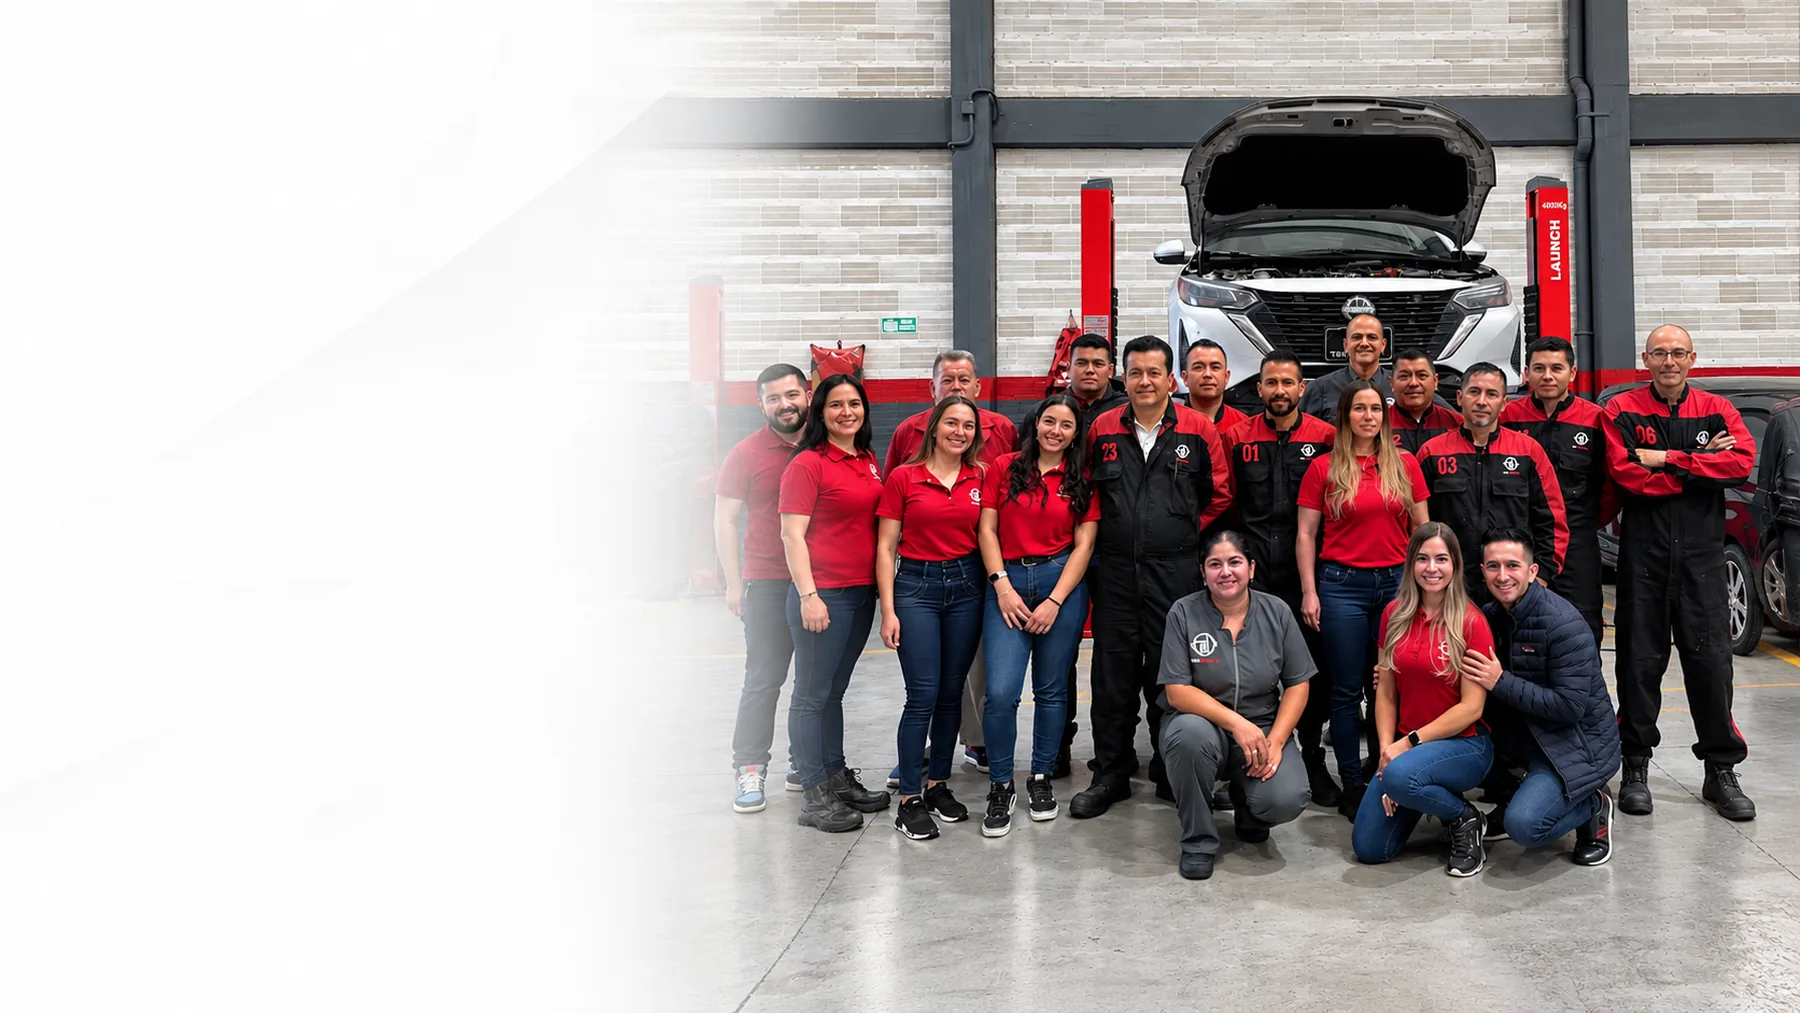
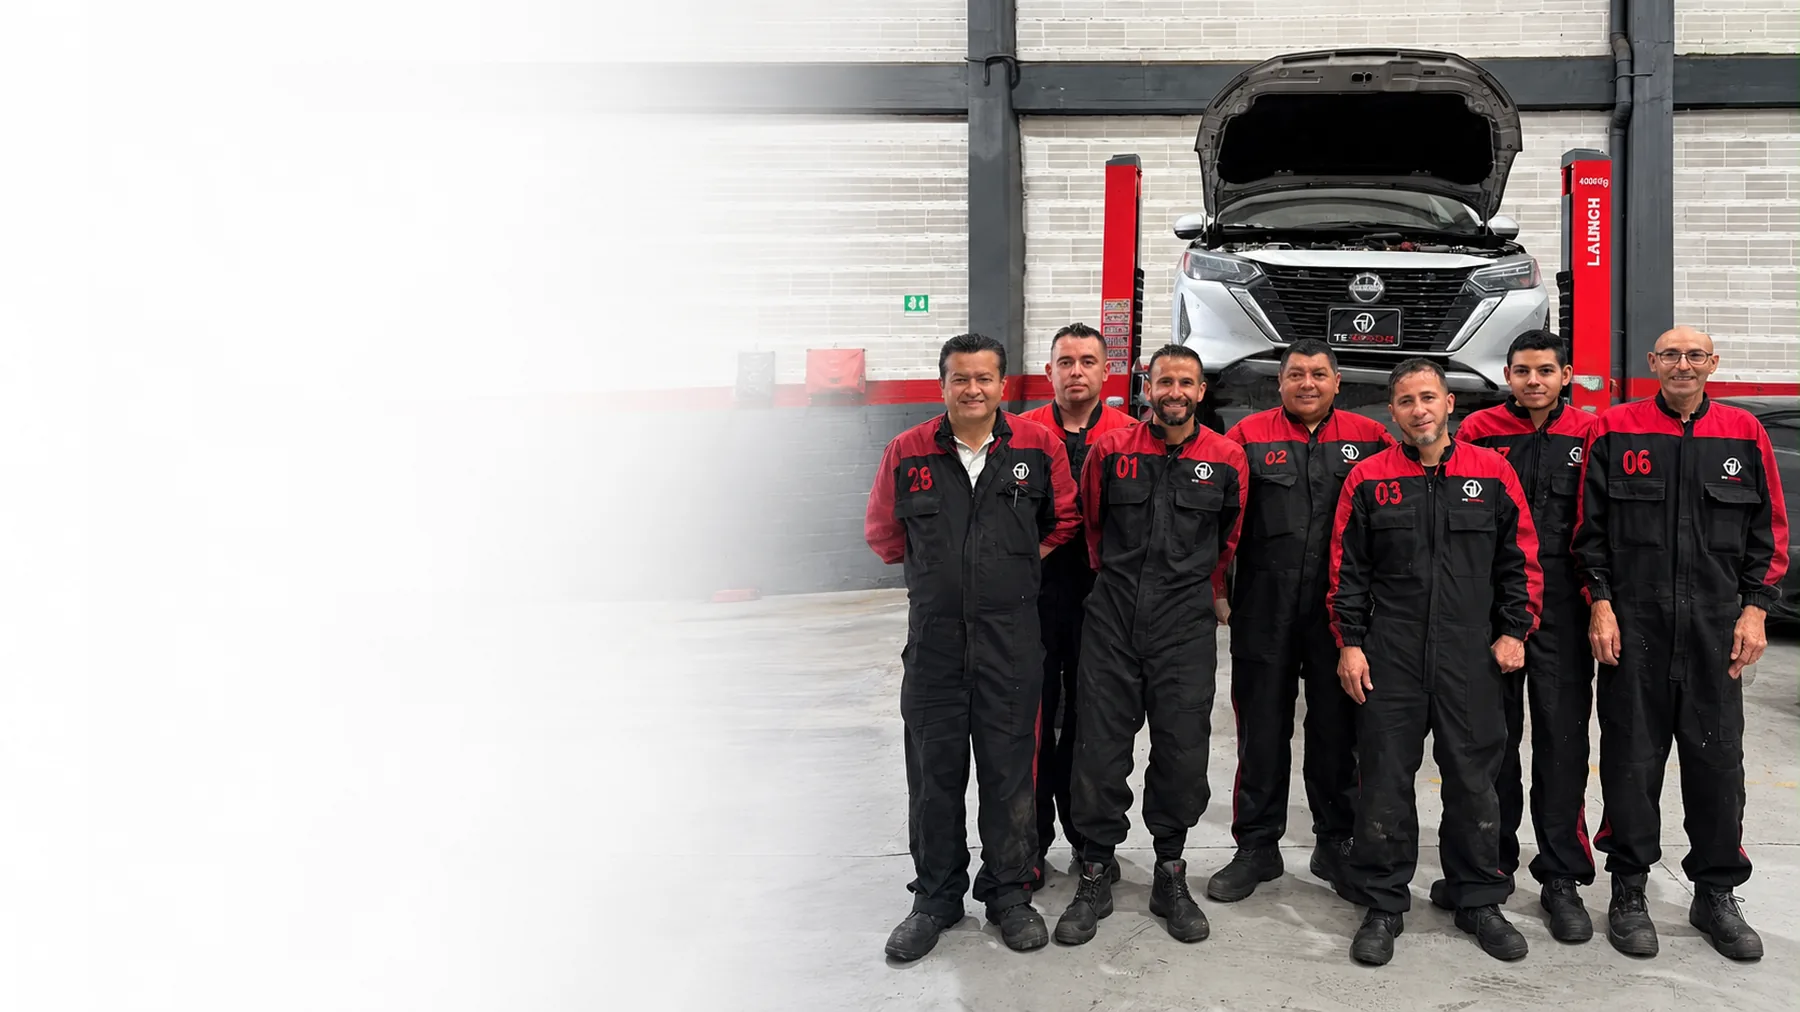
La foto de los mecanicos va a Equipo y la del equipo completo a Nosotros
La nueva foto, la del equipo mecanico, reemplaza la portada de la pagina
de Equipo. La que estaba ahi, el equipo completo, se recicla como fondo
de "Por que elegir Tecnissan" en el inicio, con la misma estructura.

Nosotros deja de ser dos columnas con la foto de la nave al lado y pasa a
.hero: el texto sobre el degradado a blanco y la foto llenando el fondo.

Tres ajustes que pidio la seccion:

- Las razones pasan a una columna. A dos se salian de la zona blanca y el
  texto de la segunda caia sobre la gente, ilegible.
- Lleva linea arriba y abajo. Queda entre Servicios y la banda de cita,
  las dos blancas, y sin las lineas no se sabia donde empieza.
- Las dos portadas nuevas comparten el velo suave que ya tenia Equipo:
  son caras, no la pared del taller.

Cada portada declara en --franja el alto que necesita su recorte movil, y
el velo de celular se calcula de ahi. Los recortes: mecanicos 103.1vw,
equipo completo 89.4vw.

Sale nave.jpg y su regla .f-nave: era un recorte de la misma foto que ya
esta de fondo en la portada del inicio.

Claude-Session: https://claude.ai/code/session_014GMneRGxYmBqRQP8rwtT9y

diff --git a/site/index.html b/site/index.html
@@ -273,37 +273,32 @@
 </section>
 
 <!-- ============================== POR QUÉ ============================== -->
-<section class="seccion hueso" id="nosotros">
-  <div class="envoltura">
-    <div class="detalle">
-      <div>
-        <span class="etiqueta" data-anim>Por qué elegir Tecnissan</span>
-        <h2 data-anim style="margin-top:18px">El taller de la esquina sabe de carros. Nosotros sabemos del tuyo.</h2>
-        <p class="plomo" data-anim style="margin-top:18px">Un Nissan no se arregla igual que los demás. Su electrónica, sus tiempos y sus fallas típicas son suyos, y el que no los conoce empieza a cambiar piezas para ver si pega.</p>
+<!-- misma estructura que la portada: la foto del equipo completo va de
+     fondo y el texto encima del degradado a blanco de la izquierda -->
+<section class="hero hero-nosotros" id="nosotros">
+  <div class="hero-rejilla">
+    <div>
+      <span class="etiqueta" data-anim>Por qué elegir Tecnissan</span>
+      <h2 data-anim style="margin-top:18px">El taller de la esquina sabe de carros. Nosotros sabemos del tuyo.</h2>
+      <p class="plomo" data-anim style="margin-top:18px">Un Nissan no se arregla igual que los demás. Su electrónica, sus tiempos y sus fallas típicas son suyos, y el que no los conoce empieza a cambiar piezas para ver si pega.</p>
 
         <div class="razones" data-anim>
-          <div class="razon">
-            <svg viewBox="0 0 24 24" aria-hidden="true"><circle cx="9" cy="8" r="3.2"/><path d="M3 20c0-3.3 2.7-6 6-6s6 2.7 6 6"/><path d="M16 5.5a3.2 3.2 0 0 1 0 6M18 20c0-2.2-.8-4.2-2.2-5.6"/></svg>
-            <div><h3>Especialistas en Nissan</h3><p>Diez años viendo los mismos motores y las mismas fallas. Reconocemos el ruido antes de abrir.</p></div>
-          </div>
-          <div class="razon">
-            <svg viewBox="0 0 24 24" aria-hidden="true"><path d="M12 3l7.5 3v5.5c0 4.4-3.1 8.4-7.5 9.5-4.4-1.1-7.5-5.1-7.5-9.5V6z"/><path d="M9 12l2.2 2.2L15.5 10"/></svg>
-            <div><h3>Diagnóstico confiable</h3><p>El escáner nos da el código y nosotros te decimos qué significa, antes de tocar una pieza.</p></div>
-          </div>
-          <div class="razon">
-            <svg viewBox="0 0 24 24" aria-hidden="true"><path d="M20.5 7.5 12 3 3.5 7.5v9L12 21l8.5-4.5z"/><path d="M12 12v9M3.5 7.5 12 12l8.5-4.5"/></svg>
-            <div><h3>Repuestos de calidad</h3><p>Originales y homologados. Si hay una alternativa buena y más barata, te la decimos con los dos precios.</p></div>
-          </div>
-          <div class="razon">
-            <svg viewBox="0 0 24 24" aria-hidden="true"><path d="M21 11.5a8.4 8.4 0 0 1-9 8.5 9.3 9.3 0 0 1-3.7-.8L3 21l1.4-4.1A8.4 8.4 0 0 1 3.5 11 8.5 8.5 0 0 1 12 3a8.4 8.4 0 0 1 9 8.5z"/><path d="M9 10h6M9 13.5h4"/></svg>
-            <div><h3>Atención cercana</h3><p>Hablas con quien hace el trabajo. Aquí no hay un asesor repitiendo lo que le dijeron.</p></div>
-          </div>
+        <div class="razon">
+          <svg viewBox="0 0 24 24" aria-hidden="true"><circle cx="9" cy="8" r="3.2"/><path d="M3 20c0-3.3 2.7-6 6-6s6 2.7 6 6"/><path d="M16 5.5a3.2 3.2 0 0 1 0 6M18 20c0-2.2-.8-4.2-2.2-5.6"/></svg>
+          <div><h3>Especialistas en Nissan</h3><p>Diez años viendo los mismos motores y las mismas fallas. Reconocemos el ruido antes de abrir.</p></div>
         </div>
-      </div>
-
-      <div data-anim>
-        <div class="foto f-nave" role="img" aria-label="Interior de la nave de Tecnissan, con los elevadores rojos y los vehículos en mantenimiento"></div>
-        <p class="pie-foto">Nuestra nave en Bogotá. Cada carro entra con diagnóstico y sale con el trabajo explicado.</p>
+        <div class="razon">
+          <svg viewBox="0 0 24 24" aria-hidden="true"><path d="M12 3l7.5 3v5.5c0 4.4-3.1 8.4-7.5 9.5-4.4-1.1-7.5-5.1-7.5-9.5V6z"/><path d="M9 12l2.2 2.2L15.5 10"/></svg>
+          <div><h3>Diagnóstico confiable</h3><p>El escáner nos da el código y nosotros te decimos qué significa, antes de tocar una pieza.</p></div>
+        </div>
+        <div class="razon">
+          <svg viewBox="0 0 24 24" aria-hidden="true"><path d="M20.5 7.5 12 3 3.5 7.5v9L12 21l8.5-4.5z"/><path d="M12 12v9M3.5 7.5 12 12l8.5-4.5"/></svg>
+          <div><h3>Repuestos de calidad</h3><p>Originales y homologados. Si hay una alternativa buena y más barata, te la decimos con los dos precios.</p></div>
+        </div>
+        <div class="razon">
+          <svg viewBox="0 0 24 24" aria-hidden="true"><path d="M21 11.5a8.4 8.4 0 0 1-9 8.5 9.3 9.3 0 0 1-3.7-.8L3 21l1.4-4.1A8.4 8.4 0 0 1 3.5 11 8.5 8.5 0 0 1 12 3a8.4 8.4 0 0 1 9 8.5z"/><path d="M9 10h6M9 13.5h4"/></svg>
+          <div><h3>Atención cercana</h3><p>Hablas con quien hace el trabajo. Aquí no hay un asesor repitiendo lo que le dijeron.</p></div>
+        </div>
       </div>
     </div>
   </div>

diff --git a/site/assets/style.css b/site/assets/style.css
@@ -248,29 +248,42 @@ body{padding-top:calc(var(--nav-h) + var(--aviso-h,0px))}
    solo cambia la foto. La imagen viene compuesta igual que la del inicio,
    con su degradado a blanco por la izquierda. Estas reglas van despues de
    las de .hero para ganarle por orden de aparicion. */
-.hero-equipo{background-image:url("equipo-fondo.webp")}
+/* Cada portada declara su foto y, en --franja, el alto que necesita esa
+   foto en celular (alto/ancho del recorte movil, en vw). El velo movil
+   se calcula solo a partir de ese valor. */
+.hero-equipo{--franja:103.1vw;background-image:url("equipo-fondo.webp")}
+.hero-nosotros{--franja:89.4vw;background-image:url("nosotros-fondo.webp")}
 /* Velo mas suave que en el inicio: alli la izquierda de la foto es la
-   pared del taller y da igual lavarla, aqui son las personas del equipo
-   y el velo del inicio les quitaba la cara. La foto ya trae su propio
+   pared del taller y da igual lavarla, aqui son las caras de la gente
+   y el velo del inicio se las borraba. La foto ya trae su propio
    degradado a blanco, asi que con menos alcanza. */
-.hero-equipo::before{
+.hero-equipo::before,
+.hero-nosotros::before{
   background:linear-gradient(90deg,
     #fff 0%, rgba(255,255,255,.92) 27%, rgba(255,255,255,.42) 41%, rgba(255,255,255,0) 56%);
 }
+/* la seccion queda entre dos secciones blancas: una linea arriba y otra
+   abajo la separan sin tener que romper la alternancia de fondos */
+.hero-nosotros{border-top:1px solid var(--linea);border-bottom:1px solid var(--linea)}
+/* las razones van en una columna: a dos se salian de la zona blanca y el
+   texto de la segunda caia encima de la gente, ilegible */
+.hero-nosotros .razones{grid-template-columns:1fr;gap:clamp(15px,1.8vw,22px);margin-top:clamp(24px,2.8vw,36px)}
+.hero-nosotros .razon p{max-width:46ch}
 @media (max-width:760px){
-  .hero-equipo{
-    background-image:url("equipo-fondo-movil.webp");
-    /* la version movil va recortada al equipo, sin el degradado blanco:
-       en pantalla angosta ese triangulo se veia como un error. Al ser mas
-       cuadrada que la del inicio, la franja necesita su propio alto. */
-    padding-bottom:min(calc(89.4vw + 10px), 430px);
-  }
+  /* las versiones movil van recortadas a la gente, sin el degradado
+     blanco: en pantalla angosta ese triangulo parecia un error. Al quedar
+     mas cuadradas que la del inicio, cada franja lleva su propio alto. */
+  .hero-equipo{background-image:url("equipo-fondo-movil.webp")}
+  .hero-nosotros{background-image:url("nosotros-fondo-movil.webp")}
+  .hero-equipo,
+  .hero-nosotros{padding-bottom:min(calc(var(--franja) + 10px), 430px)}
   /* y el velo sube mas arriba, para no lavarle las caras */
-  .hero-equipo::before{
+  .hero-equipo::before,
+  .hero-nosotros::before{
     background:linear-gradient(to top,
       rgba(255,255,255,0) 0,
-      rgba(255,255,255,0) min(72vw,320px),
-      #fff min(86vw,400px),
+      rgba(255,255,255,0) min(calc(var(--franja) * .78), 320px),
+      #fff min(calc(var(--franja) * .95), 400px),
       #fff 100%);
   }
 }
@@ -508,7 +521,6 @@ body{padding-top:calc(var(--nav-h) + var(--aviso-h,0px))}
 
 .f-taller{background-image:url("taller.jpg")}
 .f-fachada{background-image:url("fachada.jpg");aspect-ratio:16/9}
-.f-nave{background-image:url("nave.jpg");aspect-ratio:4/3;background-position:center}
 
 .galeria{display:grid;grid-template-columns:repeat(4,1fr);gap:clamp(12px,1.4vw,18px);margin-top:clamp(28px,3.4vw,44px)}
 .galeria .foto{aspect-ratio:4/3;transition:transform .5s var(--ease-out)}
